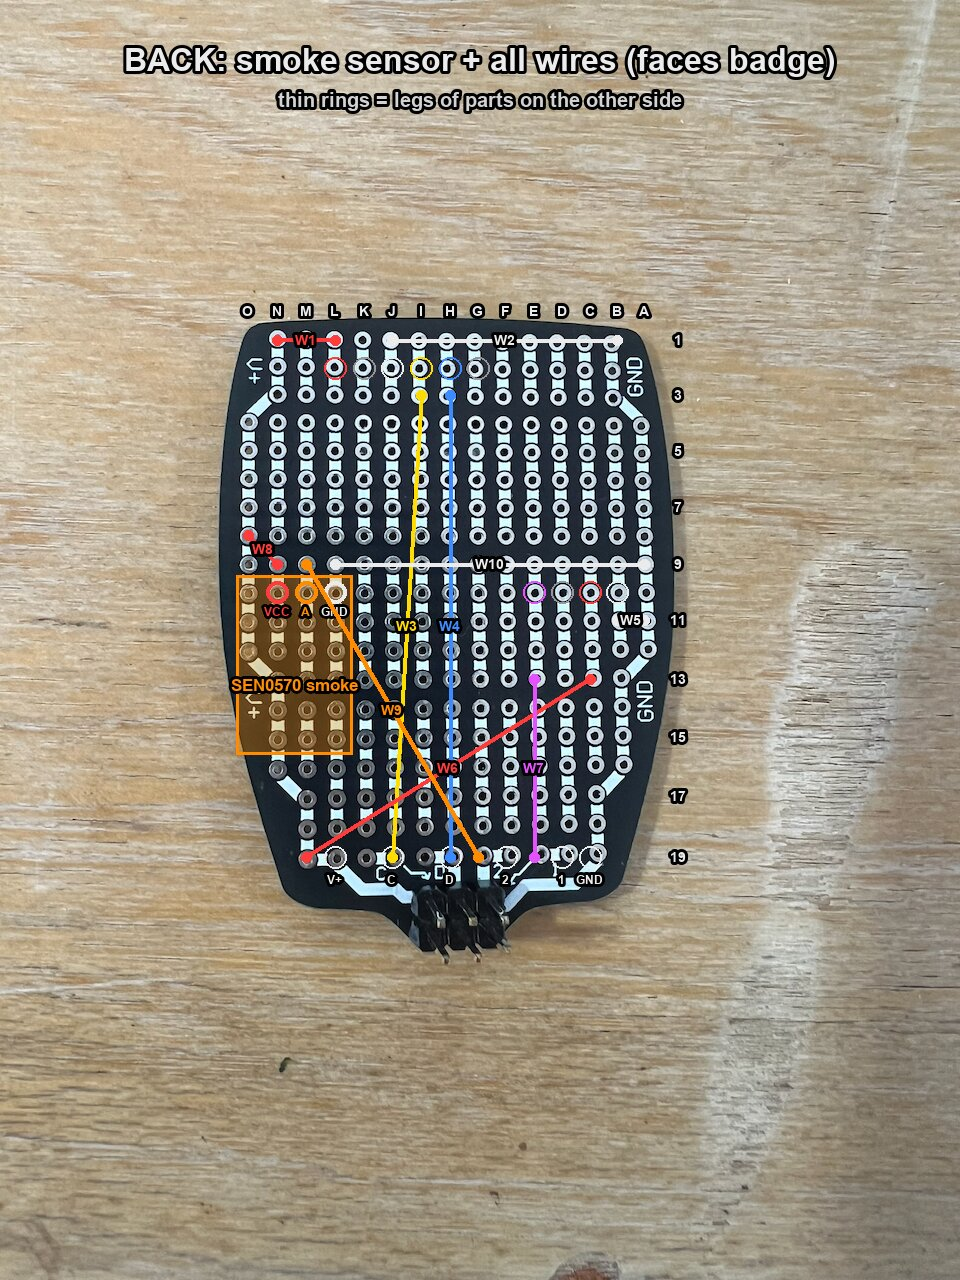
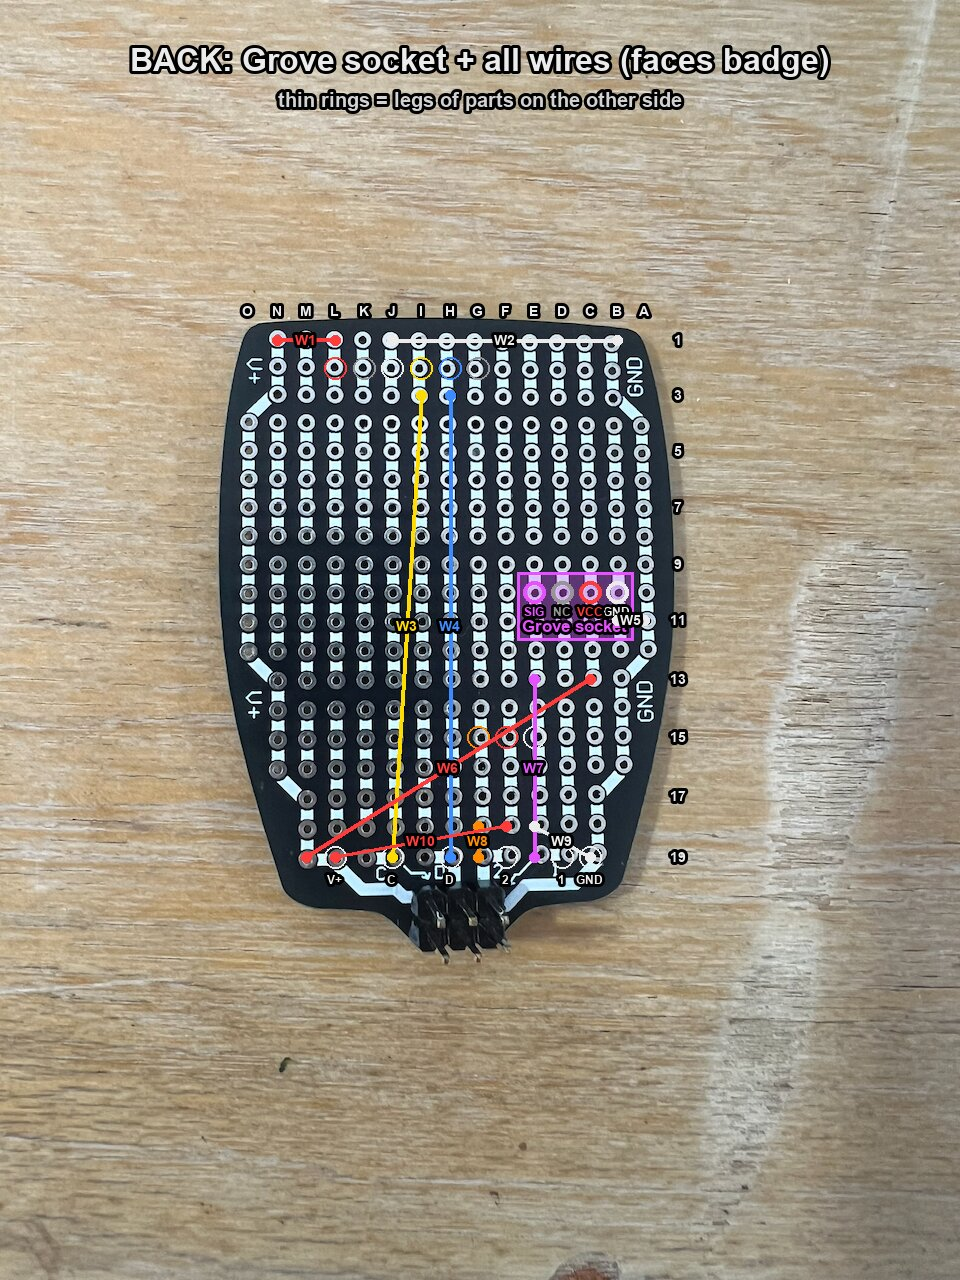
Sun SAO: Grove socket on the back, smoke sensor on the front

diff --git a/hardware/sun_sao/WIRING.md b/hardware/sun_sao/WIRING.md
@@ -1,9 +1,10 @@
 # Sun SAO wiring guide
 
-UV dose meter, smoke alarm and loudness meter on one SAO protoboard. Plugs into **SAO2 or SAO3**
-(both GPIO pins are ADC1 there; SAO1's GPIO2 is GPIO42, which has no ADC).
+UV dose meter, smoke alarm and loudness meter on one SAO protoboard. The loudness sensor stays on its
+own Grove board and plugs in with a Grove cable. Plugs into **SAO2 or SAO3** (both GPIO pins are
+ADC1 there; SAO1's GPIO2 is GPIO42, which has no ADC).
 
-| Front (UV + mic face out) | Back (smoke sensor + all wires, faces the badge) |
+| Front (UV + smoke face out) | Back (Grove socket + all wires, faces the badge) |
 |---|---|
 | ![front](front.jpg) | ![back](back.jpg) |
 
@@ -17,10 +18,9 @@ Measured from the photos; beep it with a meter before soldering (step 1 below).
 - **V+ rail**: right edge on the front (column O rows 4-13, N rows 1-3), runs to the V+ pad.
 - **GND rail**: left edge on the front (column A rows 4-12, B rows 1-3), runs to the GND pad.
 - **Strips**: each column between the rails is a vertical strip, cut into blocks: rows 1-3, 4-8,
-  9-13, 14-18.
-  A leg and a wire in the same column and the same block are connected.
-- **Pads** (row 19, two holes each): GND C19, `1` D19/E19, `2` F19/G19, `D` (SDA) H19/I19,
-  `C` (SCL) J19/K19, V+ L19/M19.
+  9-13, 14-18. A leg and a wire in the same column and the same block are connected.
+- **Pads** (row 19): GND C19, `1` D19/E19, `2` F19/G19, `D` (SDA) H19/I19, `C` (SCL) J19/K19,
+  V+ L19/M19.
 
 | Pad | SAO pin | On SAO2 | On SAO3 | Used for |
 |---|---|---|---|---|
@@ -36,12 +36,19 @@ Measured from the photos; beep it with a meter before soldering (step 1 below).
 | Part | Side | Legs (hole) | Notes |
 |---|---|---|---|
 | Adafruit LTR390 UV (#4831) | front, upside down (header at the top edge) | INT G2, SDA H2, SCL I2, GND J2, 3Vo K2, VIN L2 | Sensor window faces out. 3Vo and INT unused. |
-| Seeed Grove Loudness v0.9b | front, below the UV board | GND B10, VCC C10, NC D10, SIG E10 | Solder a 4-pin header into its SIG/NC/VCC/GND holes. NC unused. |
-| DFRobot SEN0570 smoke | back, lower right | GND L10, A M10, VCC N10 | Faces the badge. Legs poke through to the front in an empty area. |
+| DFRobot SEN0570 smoke | front, lower left | GND E15, VCC F15, A G15 | Faces out for airflow. Its body may cover the pad labels; the pads are wired from the back. |
+| Grove female socket | back, left edge | GND B10, VCC C10, NC D10, SIG E10 | Grove cable to the loudness board. NC (white wire) unused. |
 
-The pin order on the LTR390 (VIN, 3Vo, GND, SCL, SDA, INT) is assumed; wire by the names printed on
-your board, not by position. Body outlines in the photos are approximate: dry-fit all three before
-soldering.
+- The LTR390 pin order (VIN, 3Vo, GND, SCL, SDA, INT) and the SEN0570 order (GND, VCC, A) are
+  assumed; wire by the names printed on your boards, not by position. Body outlines in the photos
+  are approximate: dry-fit before soldering.
+- **Grove socket pitch is 2.0 mm, the protoboard is 2.54 mm.** Splay the four legs outward
+  (outer legs ~0.8 mm, inner ~0.3 mm) so they land in B10-E10. Afterwards check that no two
+  neighbouring legs beep to each other.
+- **Socket direction:** the socket sits on the back, between the SAO and the badge. A right-angle
+  socket with its opening toward the left edge (column A side) keeps the cable out of the gap. A
+  vertical socket's opening would face the badge: dry-fit to see if the plug fits in the gap.
+- Grove cable colors: yellow SIG, white NC, red VCC, black GND.
 
 ## Jumper wires (all on the back)
 
@@ -56,23 +63,23 @@ Use insulated wire (30 AWG wire-wrap is ideal). Wires may cross each other.
 | W5 | B11 (Grove GND strip) | A11 (GND rail) | GND |
 | W6 | C13 (Grove VCC strip) | M19 (V+ pad) | V+ |
 | W7 | E13 (Grove SIG strip) | E19 (pad 1) | loudness |
-| W8 | N9 (smoke VCC strip) | O8 (V+ rail) | V+ |
-| W9 | M9 (smoke A strip) | G19 (pad 2) | smoke |
-| W10 | L9 (smoke GND strip) | A9 (GND rail) | GND |
+| W8 | G18 (smoke A strip) | G19 (pad 2) | smoke |
+| W9 | E18 (smoke GND strip) | C19 (GND pad) | GND |
+| W10 | F18 (smoke VCC strip) | L19 (V+ pad) | V+ |
 
 ## Build order
 
 1. **Beep the board** (meter on continuity, nothing soldered yet):
    - N1 to O8 to L19: beep (V+). B1 to A11 to C19: beep (GND). V+ to GND: **no** beep.
-   - Each strip used above (G-L rows 1-3, B-E rows 9-13, L-N rows 9-13): beeps along its block,
-     not to its neighbours. If N13 or B13 beeps to a rail, that is fine (same net as the leg).
+   - Each strip used above (G-L rows 1-3, B-E rows 9-13, E-G rows 14-18): beeps along its block,
+     not to its neighbours. E13 to E15 must **not** beep (different blocks, different signals).
+     If B13 beeps to the GND rail, that is fine (same net as the leg).
    - The old solder blobs on the front at row 5 (columns F-K) sit under the UV board: wick them or
      check they don't bridge two strips.
-2. **Wires first**: W6 and W8 run near the smoke sensor footprint; solder them before the sensor.
-3. **Smoke sensor on the back**, then the **Grove** and **LTR390** on the front.
+2. **Grove socket** on the back (legs splayed), then **wires W1-W10**.
+3. **Smoke sensor**, then the **LTR390** on the front.
 4. **Before plugging in**: V+ to GND must not beep. Each pad (1, 2, D, C) must not beep to V+ or GND.
-5. **Clearance**: dry-fit the SAO on the badge. The smoke sensor on the back must not touch the
-   badge; if it does, move it to the front at the same holes (front columns J-O, rows 9-18 are free).
+5. **Dry-fit on the badge**: nothing on the back touches the badge, and the Grove cable plugs in.
 
 ## Electrical notes
 
